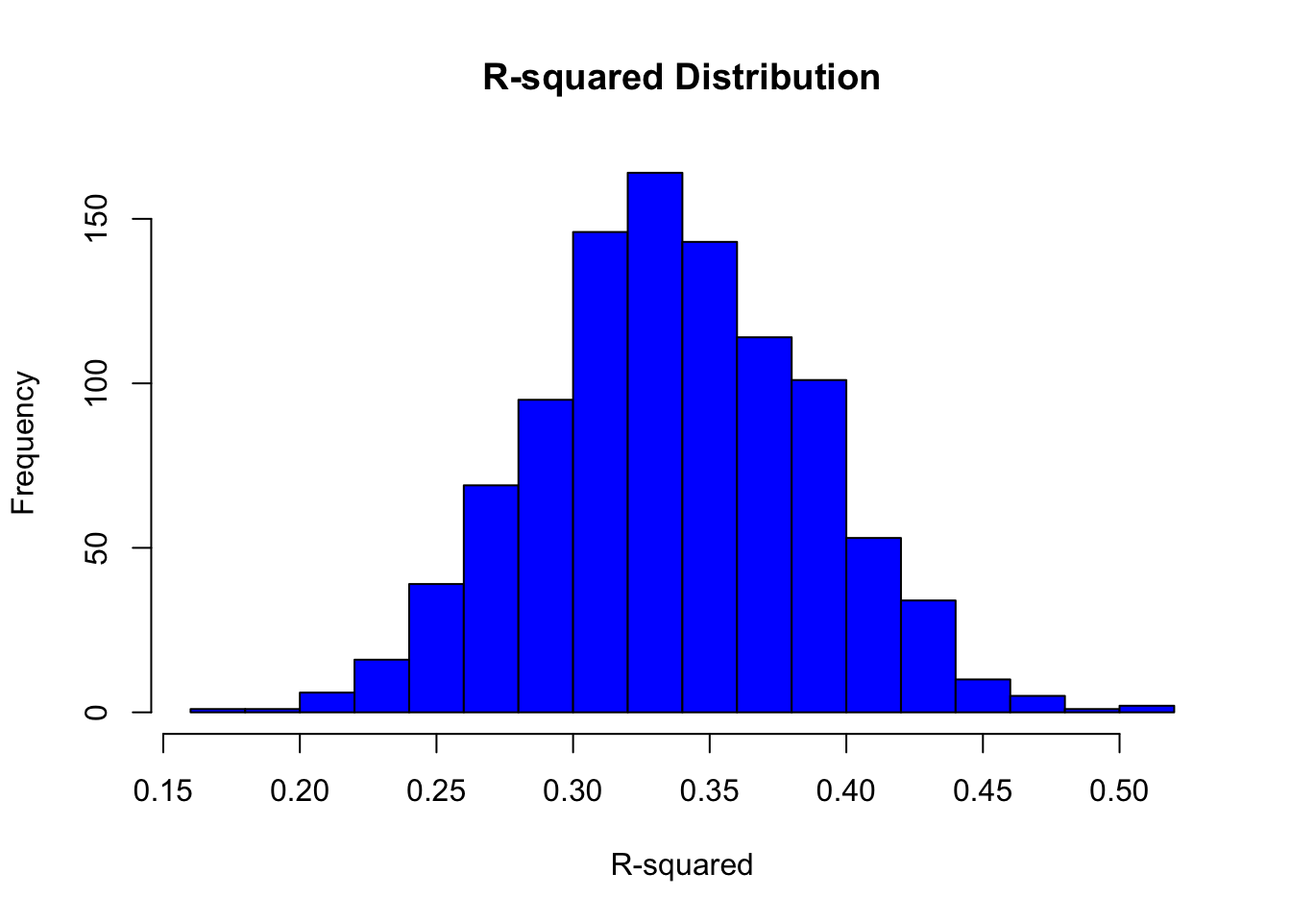
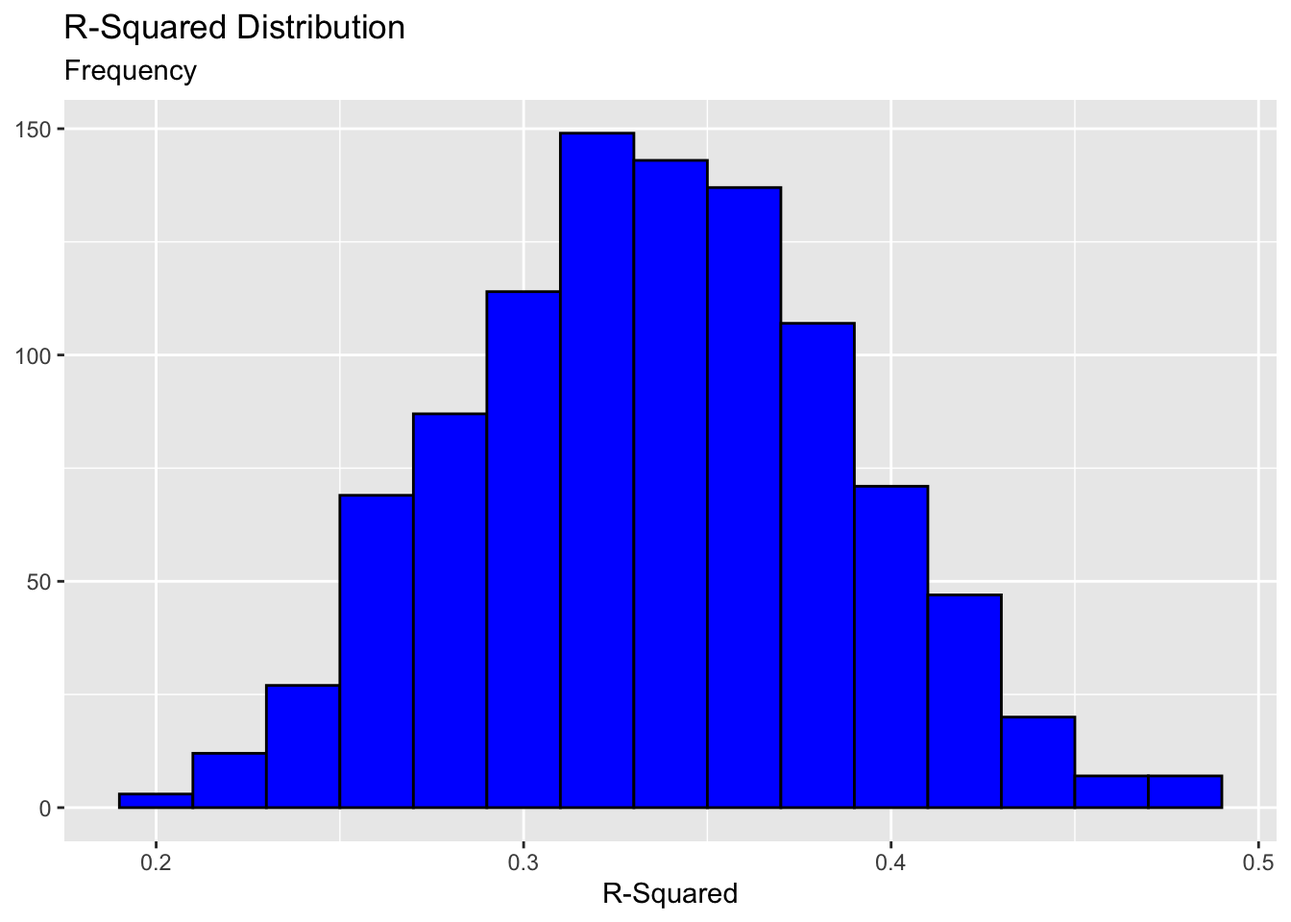
Cleaned up LaTeX

diff --git a/Project Proposal Data.html b/Project Proposal Data.html
@@ -69,6 +69,8 @@ pre > code.sourceCode > span > a:first-child::before { text-decoration: underlin
 <link href="Project Proposal Data_files/libs/bootstrap/bootstrap-icons.css" rel="stylesheet">
 <link href="Project Proposal Data_files/libs/bootstrap/bootstrap.min.css" rel="stylesheet" id="quarto-bootstrap" data-mode="light">
 
+  <script src="https://polyfill.io/v3/polyfill.min.js?features=es6"></script>
+  <script src="https://cdn.jsdelivr.net/npm/mathjax@3/es5/tex-chtml-full.js" type="text/javascript"></script>
 
 </head>
 
@@ -114,14 +116,7 @@ pre > code.sourceCode > span > a:first-child::before { text-decoration: underlin
 <p>For our first data set we chose one that focuses on the GDP ( Gross Domestic Product) per capita of almost 200 countries across the world. GDP per capita takes the whole economic output of a country, and divides it by the country’s population to understand the economic output per person in a country. Lower GDPs per capita means the economy of the given country is poor. The data we have chose highlights the change in GDP per capita from 1950 to 2025 throughout the given countries.</p>
 <p>Our second data is centered around Child Mortality rates in countries across the world. The rate of child mortality is measured as the amount of deaths to children 5 years or younger for every 1,000 children born in a country. This data set includes almost 200 countries from around the world and gives us their child mortality rates from 1950 - 2025.</p>
 <div class="cell">
-<<<<<<< HEAD
-<div class="sourceCode cell-code" id="cb5"><pre class="sourceCode r code-with-copy"><code class="sourceCode r"><span id="cb5-1"><a href="#cb5-1" aria-hidden="true" tabindex="-1"></a>gdp_data <span class="ot">&lt;-</span> <span class="fu">read_csv</span>(here<span class="sc">::</span><span class="fu">here</span>(<span class="st">"gdp_pcap.csv"</span>))</span></code><button title="Copy to Clipboard" class="code-copy-button"><i class="bi"></i></button></pre></div>
-=======
-<details>
-<summary>Code</summary>
 <div class="sourceCode cell-code" id="cb2"><pre class="sourceCode r code-with-copy"><code class="sourceCode r"><span id="cb2-1"><a href="#cb2-1" aria-hidden="true" tabindex="-1"></a>gdp_data <span class="ot">&lt;-</span> <span class="fu">read_csv</span>(here<span class="sc">::</span><span class="fu">here</span>(<span class="st">"gdp_pcap.csv"</span>))</span></code><button title="Copy to Clipboard" class="code-copy-button"><i class="bi"></i></button></pre></div>
-</details>
->>>>>>> 32b1478ddbf8e6ae47a6c7b549732457a0209796
 <div class="cell-output cell-output-stderr">
 <pre><code>Rows: 195 Columns: 302
 ── Column specification ────────────────────────────────────────────────────────
@@ -132,14 +127,7 @@ dbl  (86): 1800, 1801, 1802, 1803, 1804, 1805, 1806, 1807, 1808, 1809, 1810,...
 ℹ Use `spec()` to retrieve the full column specification for this data.
 ℹ Specify the column types or set `show_col_types = FALSE` to quiet this message.</code></pre>
 </div>
-<<<<<<< HEAD
-<div class="sourceCode cell-code" id="cb7"><pre class="sourceCode r code-with-copy"><code class="sourceCode r"><span id="cb7-1"><a href="#cb7-1" aria-hidden="true" tabindex="-1"></a>child_mortality_data <span class="ot">&lt;-</span> <span class="fu">read_csv</span>(here<span class="sc">::</span><span class="fu">here</span>(<span class="st">"child_mortality_0_5_year_olds_dying_per_1000_born.csv"</span>))</span></code><button title="Copy to Clipboard" class="code-copy-button"><i class="bi"></i></button></pre></div>
-=======
-<details>
-<summary>Code</summary>
 <div class="sourceCode cell-code" id="cb4"><pre class="sourceCode r code-with-copy"><code class="sourceCode r"><span id="cb4-1"><a href="#cb4-1" aria-hidden="true" tabindex="-1"></a>child_mortality_data <span class="ot">&lt;-</span> <span class="fu">read_csv</span>(here<span class="sc">::</span><span class="fu">here</span>(<span class="st">"child_mortality_0_5_year_olds_dying_per_1000_born.csv"</span>))</span></code><button title="Copy to Clipboard" class="code-copy-button"><i class="bi"></i></button></pre></div>
-</details>
->>>>>>> 32b1478ddbf8e6ae47a6c7b549732457a0209796
 <div class="cell-output cell-output-stderr">
 <pre><code>Rows: 197 Columns: 302
 ── Column specification ────────────────────────────────────────────────────────
@@ -152,37 +140,17 @@ dbl (301): 1800, 1801, 1802, 1803, 1804, 1805, 1806, 1807, 1808, 1809, 1810,...
 </div>
 </div>
 <div class="cell">
-<<<<<<< HEAD
-<div class="sourceCode cell-code" id="cb9"><pre class="sourceCode r code-with-copy"><code class="sourceCode r"><span id="cb9-1"><a href="#cb9-1" aria-hidden="true" tabindex="-1"></a>child_mortality_long <span class="ot">&lt;-</span> child_mortality_data <span class="sc">|&gt;</span></span>
-<span id="cb9-2"><a href="#cb9-2" aria-hidden="true" tabindex="-1"></a>  <span class="fu">select</span>(country, <span class="st">`</span><span class="at">1950</span><span class="st">`</span><span class="sc">:</span><span class="st">`</span><span class="at">2025</span><span class="st">`</span>) <span class="sc">|&gt;</span></span>
-<span id="cb9-3"><a href="#cb9-3" aria-hidden="true" tabindex="-1"></a>  <span class="fu">pivot_longer</span>(<span class="at">cols =</span> <span class="st">`</span><span class="at">1950</span><span class="st">`</span><span class="sc">:</span><span class="st">`</span><span class="at">2025</span><span class="st">`</span>, <span class="at">names_to =</span> <span class="st">"Year"</span>, <span class="at">values_to =</span> <span class="st">"Death_per_1000"</span>) <span class="sc">|&gt;</span></span>
-<span id="cb9-4"><a href="#cb9-4" aria-hidden="true" tabindex="-1"></a>  <span class="fu">filter</span>(<span class="sc">!</span><span class="fu">is.na</span>(Death_per_1000)) </span></code><button title="Copy to Clipboard" class="code-copy-button"><i class="bi"></i></button></pre></div>
-</div>
-<div class="cell">
-<div class="sourceCode cell-code" id="cb10"><pre class="sourceCode r code-with-copy"><code class="sourceCode r"><span id="cb10-1"><a href="#cb10-1" aria-hidden="true" tabindex="-1"></a>gdp_data_long <span class="ot">&lt;-</span> gdp_data <span class="sc">|&gt;</span></span>
-<span id="cb10-2"><a href="#cb10-2" aria-hidden="true" tabindex="-1"></a>  <span class="fu">select</span>(country, <span class="st">`</span><span class="at">1950</span><span class="st">`</span><span class="sc">:</span><span class="st">`</span><span class="at">2025</span><span class="st">`</span>) <span class="sc">|&gt;</span></span>
-<span id="cb10-3"><a href="#cb10-3" aria-hidden="true" tabindex="-1"></a>  <span class="fu">pivot_longer</span>(<span class="at">cols =</span> <span class="st">`</span><span class="at">1950</span><span class="st">`</span><span class="sc">:</span><span class="st">`</span><span class="at">2025</span><span class="st">`</span>, <span class="at">names_to =</span> <span class="st">"Year"</span>, <span class="at">values_to =</span> <span class="st">"GDP"</span>) <span class="sc">|&gt;</span></span>
-<span id="cb10-4"><a href="#cb10-4" aria-hidden="true" tabindex="-1"></a>  <span class="fu">filter</span>(<span class="sc">!</span><span class="fu">is.na</span>(GDP)) <span class="sc">|&gt;</span></span>
-<span id="cb10-5"><a href="#cb10-5" aria-hidden="true" tabindex="-1"></a>  <span class="fu">mutate</span>(<span class="at">GDP =</span> <span class="fu">if_else</span>(<span class="fu">str_detect</span>(GDP, <span class="st">"k"</span>), <span class="fu">as.numeric</span>(<span class="fu">str_replace</span>(GDP, <span class="st">"k"</span>, <span class="st">""</span>)) <span class="sc">*</span> <span class="dv">1000</span>, <span class="fu">as.numeric</span>(GDP)))</span></code><button title="Copy to Clipboard" class="code-copy-button"><i class="bi"></i></button></pre></div>
-=======
-<details>
-<summary>Code</summary>
 <div class="sourceCode cell-code" id="cb6"><pre class="sourceCode r code-with-copy"><code class="sourceCode r"><span id="cb6-1"><a href="#cb6-1" aria-hidden="true" tabindex="-1"></a>child_mortality_long <span class="ot">&lt;-</span> child_mortality_data <span class="sc">|&gt;</span></span>
 <span id="cb6-2"><a href="#cb6-2" aria-hidden="true" tabindex="-1"></a>  <span class="fu">select</span>(country, <span class="st">`</span><span class="at">1950</span><span class="st">`</span><span class="sc">:</span><span class="st">`</span><span class="at">2025</span><span class="st">`</span>) <span class="sc">|&gt;</span></span>
 <span id="cb6-3"><a href="#cb6-3" aria-hidden="true" tabindex="-1"></a>  <span class="fu">pivot_longer</span>(<span class="at">cols =</span> <span class="st">`</span><span class="at">1950</span><span class="st">`</span><span class="sc">:</span><span class="st">`</span><span class="at">2025</span><span class="st">`</span>, <span class="at">names_to =</span> <span class="st">"Year"</span>, <span class="at">values_to =</span> <span class="st">"Death_per_1000"</span>) <span class="sc">|&gt;</span></span>
 <span id="cb6-4"><a href="#cb6-4" aria-hidden="true" tabindex="-1"></a>  <span class="fu">filter</span>(<span class="sc">!</span><span class="fu">is.na</span>(Death_per_1000)) </span></code><button title="Copy to Clipboard" class="code-copy-button"><i class="bi"></i></button></pre></div>
-</details>
 </div>
 <div class="cell">
-<details>
-<summary>Code</summary>
 <div class="sourceCode cell-code" id="cb7"><pre class="sourceCode r code-with-copy"><code class="sourceCode r"><span id="cb7-1"><a href="#cb7-1" aria-hidden="true" tabindex="-1"></a>gdp_data_long <span class="ot">&lt;-</span> gdp_data <span class="sc">|&gt;</span></span>
 <span id="cb7-2"><a href="#cb7-2" aria-hidden="true" tabindex="-1"></a>  <span class="fu">select</span>(country, <span class="st">`</span><span class="at">1950</span><span class="st">`</span><span class="sc">:</span><span class="st">`</span><span class="at">2025</span><span class="st">`</span>) <span class="sc">|&gt;</span></span>
 <span id="cb7-3"><a href="#cb7-3" aria-hidden="true" tabindex="-1"></a>  <span class="fu">pivot_longer</span>(<span class="at">cols =</span> <span class="st">`</span><span class="at">1950</span><span class="st">`</span><span class="sc">:</span><span class="st">`</span><span class="at">2025</span><span class="st">`</span>, <span class="at">names_to =</span> <span class="st">"Year"</span>, <span class="at">values_to =</span> <span class="st">"GDP"</span>) <span class="sc">|&gt;</span></span>
 <span id="cb7-4"><a href="#cb7-4" aria-hidden="true" tabindex="-1"></a>  <span class="fu">filter</span>(<span class="sc">!</span><span class="fu">is.na</span>(GDP)) <span class="sc">|&gt;</span></span>
 <span id="cb7-5"><a href="#cb7-5" aria-hidden="true" tabindex="-1"></a>  <span class="fu">mutate</span>(<span class="at">GDP =</span> <span class="fu">if_else</span>(<span class="fu">str_detect</span>(GDP, <span class="st">"k"</span>), <span class="fu">as.numeric</span>(<span class="fu">str_replace</span>(GDP, <span class="st">"k"</span>, <span class="st">""</span>)) <span class="sc">*</span> <span class="dv">1000</span>, <span class="fu">as.numeric</span>(GDP)))</span></code><button title="Copy to Clipboard" class="code-copy-button"><i class="bi"></i></button></pre></div>
-</details>
->>>>>>> 32b1478ddbf8e6ae47a6c7b549732457a0209796
 <div class="cell-output cell-output-stderr">
 <pre><code>Warning: There was 1 warning in `mutate()`.
 ℹ In argument: `GDP = if_else(...)`.
@@ -195,68 +163,34 @@ Caused by warning in `if_else()`:
 <h2 class="anchored" data-anchor-id="hypothesis">Hypothesis</h2>
 <p>We are combining our two data sets, GDP per capita and Child Mortality Rates, to examine what type of relationship, if any, there is between the two variables. We are testing how GDP per capita has affected Child Mortality Rates in countries across the world from 1950 to 2025, and if we can find any association between the two. Our hypothesis is that a lower GDP per Capita will be positively associated with a higher Child Mortality Rate. We believe this to be true because the lower economic standing a country has, the harsher living conditions there tends to be meaning an increased possibility of child mortality.</p>
 <div class="cell">
-<<<<<<< HEAD
-<div class="sourceCode cell-code" id="cb12"><pre class="sourceCode r code-with-copy"><code class="sourceCode r"><span id="cb12-1"><a href="#cb12-1" aria-hidden="true" tabindex="-1"></a>Total_data <span class="ot">&lt;-</span> child_mortality_long <span class="sc">|&gt;</span></span>
-<span id="cb12-2"><a href="#cb12-2" aria-hidden="true" tabindex="-1"></a>  <span class="fu">inner_join</span>(gdp_data_long, <span class="fu">join_by</span>(<span class="st">"country"</span>, <span class="st">"Year"</span>)) <span class="sc">|&gt;</span></span>
-<span id="cb12-3"><a href="#cb12-3" aria-hidden="true" tabindex="-1"></a>  <span class="fu">rename</span>(<span class="st">"Country"</span> <span class="ot">=</span> country)</span></code><button title="Copy to Clipboard" class="code-copy-button"><i class="bi"></i></button></pre></div>
-=======
-<details>
-<summary>Code</summary>
 <div class="sourceCode cell-code" id="cb9"><pre class="sourceCode r code-with-copy"><code class="sourceCode r"><span id="cb9-1"><a href="#cb9-1" aria-hidden="true" tabindex="-1"></a>Total_data <span class="ot">&lt;-</span> child_mortality_long <span class="sc">|&gt;</span></span>
 <span id="cb9-2"><a href="#cb9-2" aria-hidden="true" tabindex="-1"></a>  <span class="fu">inner_join</span>(gdp_data_long, <span class="fu">join_by</span>(<span class="st">"country"</span>, <span class="st">"Year"</span>)) <span class="sc">|&gt;</span></span>
 <span id="cb9-3"><a href="#cb9-3" aria-hidden="true" tabindex="-1"></a>  <span class="fu">rename</span>(<span class="st">"Country"</span> <span class="ot">=</span> country)</span></code><button title="Copy to Clipboard" class="code-copy-button"><i class="bi"></i></button></pre></div>
-</details>
->>>>>>> 32b1478ddbf8e6ae47a6c7b549732457a0209796
 </div>
 </section>
 <section id="linear-regression" class="level2">
 <h2 class="anchored" data-anchor-id="linear-regression">2 Linear Regression</h2>
 <div class="cell">
-<<<<<<< HEAD
-<div class="sourceCode cell-code" id="cb13"><pre class="sourceCode r code-with-copy"><code class="sourceCode r"><span id="cb13-1"><a href="#cb13-1" aria-hidden="true" tabindex="-1"></a>avg_Total_data <span class="ot">&lt;-</span> Total_data<span class="sc">|&gt;</span></span>
-<span id="cb13-2"><a href="#cb13-2" aria-hidden="true" tabindex="-1"></a>  <span class="fu">group_by</span>(Country)<span class="sc">|&gt;</span></span>
-<span id="cb13-3"><a href="#cb13-3" aria-hidden="true" tabindex="-1"></a>  <span class="fu">summarize</span>(<span class="at">avg_GDP =</span> <span class="fu">mean</span>(GDP), <span class="at">avg_Death_per_1000 =</span> <span class="fu">mean</span>(Death_per_1000))</span></code><button title="Copy to Clipboard" class="code-copy-button"><i class="bi"></i></button></pre></div>
-=======
 <details>
 <summary>Code</summary>
 <div class="sourceCode cell-code" id="cb10"><pre class="sourceCode r code-with-copy"><code class="sourceCode r"><span id="cb10-1"><a href="#cb10-1" aria-hidden="true" tabindex="-1"></a>avg_Total_data <span class="ot">&lt;-</span> Total_data<span class="sc">|&gt;</span></span>
 <span id="cb10-2"><a href="#cb10-2" aria-hidden="true" tabindex="-1"></a>  <span class="fu">group_by</span>(Country)<span class="sc">|&gt;</span></span>
 <span id="cb10-3"><a href="#cb10-3" aria-hidden="true" tabindex="-1"></a>  <span class="fu">summarize</span>(<span class="at">avg_GDP =</span> <span class="fu">mean</span>(GDP), <span class="at">avg_Death_per_1000 =</span> <span class="fu">mean</span>(Death_per_1000))</span></code><button title="Copy to Clipboard" class="code-copy-button"><i class="bi"></i></button></pre></div>
 </details>
->>>>>>> 32b1478ddbf8e6ae47a6c7b549732457a0209796
 </div>
 </section>
 <section id="data-visualization" class="level2">
 <h2 class="anchored" data-anchor-id="data-visualization">2.1 Data Visualization</h2>
 <div class="cell">
-<<<<<<< HEAD
-<div class="sourceCode cell-code" id="cb14"><pre class="sourceCode r code-with-copy"><code class="sourceCode r"><span id="cb14-1"><a href="#cb14-1" aria-hidden="true" tabindex="-1"></a><span class="fu">ggplot</span>(Total_data, <span class="fu">aes</span>(<span class="at">x =</span> GDP, <span class="at">y =</span> Death_per_1000, <span class="at">color =</span> Country)) <span class="sc">+</span></span>
-<span id="cb14-2"><a href="#cb14-2" aria-hidden="true" tabindex="-1"></a>  <span class="fu">geom_line</span>() <span class="sc">+</span></span>
-<span id="cb14-3"><a href="#cb14-3" aria-hidden="true" tabindex="-1"></a>  <span class="fu">labs</span>(<span class="at">x =</span> <span class="st">"GDP"</span>, <span class="at">y =</span> <span class="st">"Death_per_1000"</span>, <span class="at">title =</span> <span class="st">"Relationship between Death_per_1000 and GDP over time"</span>)</span></code><button title="Copy to Clipboard" class="code-copy-button"><i class="bi"></i></button></pre></div>
-=======
-<details>
-<summary>Code</summary>
 <div class="sourceCode cell-code" id="cb11"><pre class="sourceCode r code-with-copy"><code class="sourceCode r"><span id="cb11-1"><a href="#cb11-1" aria-hidden="true" tabindex="-1"></a><span class="fu">ggplot</span>(Total_data, <span class="fu">aes</span>(<span class="at">x =</span> GDP, <span class="at">y =</span> Death_per_1000, <span class="at">color =</span> Country)) <span class="sc">+</span></span>
 <span id="cb11-2"><a href="#cb11-2" aria-hidden="true" tabindex="-1"></a>  <span class="fu">geom_line</span>() <span class="sc">+</span></span>
 <span id="cb11-3"><a href="#cb11-3" aria-hidden="true" tabindex="-1"></a>  <span class="fu">labs</span>(<span class="at">x =</span> <span class="st">"GDP"</span>, <span class="at">y =</span> <span class="cn">NULL</span>, <span class="at">subtitle =</span> <span class="st">"Child Mortality per 1000"</span>, <span class="at">title =</span> <span class="st">"Relationship between Child Mortality and GDP over time"</span>)</span></code><button title="Copy to Clipboard" class="code-copy-button"><i class="bi"></i></button></pre></div>
-</details>
->>>>>>> 32b1478ddbf8e6ae47a6c7b549732457a0209796
 <div class="cell-output-display">
 <p><img src="Project-Proposal-Data_files/figure-html/unnamed-chunk-7-1.png" class="img-fluid" width="672"></p>
 </div>
-<<<<<<< HEAD
-</div>
-<div class="sourceCode cell-code" id="cb15"><pre class="sourceCode r code-with-copy"><code class="sourceCode r"><span id="cb15-1"><a href="#cb15-1" aria-hidden="true" tabindex="-1"></a><span class="fu">ggplot</span>(avg_Total_data, <span class="fu">aes</span>(<span class="at">x =</span> avg_GDP, <span class="at">y =</span> avg_Death_per_1000)) <span class="sc">+</span></span>
-<span id="cb15-2"><a href="#cb15-2" aria-hidden="true" tabindex="-1"></a>  <span class="fu">geom_point</span>() <span class="sc">+</span></span>
-<span id="cb15-3"><a href="#cb15-3" aria-hidden="true" tabindex="-1"></a>  <span class="fu">labs</span>(<span class="at">x =</span> <span class="st">"Average GDP"</span>, <span class="at">y =</span> <span class="st">"Average Death_per_1000"</span>, <span class="at">title =</span> <span class="st">"Relationship between Average Death_per_1000 and Average GDP over time"</span>)</span></code><button title="Copy to Clipboard" class="code-copy-button"><i class="bi"></i></button></pre></div>
-=======
-<details>
-<summary>Code</summary>
 <div class="sourceCode cell-code" id="cb12"><pre class="sourceCode r code-with-copy"><code class="sourceCode r"><span id="cb12-1"><a href="#cb12-1" aria-hidden="true" tabindex="-1"></a><span class="fu">ggplot</span>(avg_Total_data, <span class="fu">aes</span>(<span class="at">x =</span> avg_GDP, <span class="at">y =</span> avg_Death_per_1000)) <span class="sc">+</span></span>
 <span id="cb12-2"><a href="#cb12-2" aria-hidden="true" tabindex="-1"></a>  <span class="fu">geom_point</span>() <span class="sc">+</span></span>
 <span id="cb12-3"><a href="#cb12-3" aria-hidden="true" tabindex="-1"></a>  <span class="fu">labs</span>(<span class="at">x =</span> <span class="st">"Average GDP"</span>, <span class="at">y =</span> <span class="cn">NULL</span>, <span class="at">subtitle =</span> <span class="st">"Average Child Mortality per 1000"</span>, <span class="at">title =</span> <span class="st">"Relationship between Average Child Mortality and Average GDP over time"</span>)</span></code><button title="Copy to Clipboard" class="code-copy-button"><i class="bi"></i></button></pre></div>
-</details>
->>>>>>> 32b1478ddbf8e6ae47a6c7b549732457a0209796
 <div class="cell-output-display">
 <p><img src="Project-Proposal-Data_files/figure-html/unnamed-chunk-7-2.png" class="img-fluid" width="672"></p>
 </div>
@@ -264,19 +198,11 @@ Caused by warning in `if_else()`:
 </section>
 <section id="linear-regression-1" class="level2">
 <h2 class="anchored" data-anchor-id="linear-regression-1">2.2 Linear Regression</h2>
-<p>Average Child Mortality Rate = 123 - .0024(Average GDP)</p>
-<p>From this equation we can gather that when the Average GDP of a country is $0, the Average Child Mortality Rate is 123 deaths per 1000 children.</p>
+<p><span class="math inline">\(\hat{y} = 123 - .0024\hat{x}\)</span>, where \<span class="math inline">\(\hat{y} = \text{Predicted Average Child Mortality Rate}\)</span> and <span class="math inline">\(\hat{x} = \text{Average GDP}\)</span></p>
+<p>From this equation we can gather that when the Average GDP of a country is $0, the predicted Average Child Mortality Rate is 123 deaths per 1000 children. We can also see that with every one dollar increase in Average GDP, the predicted Average Child Mortality rate goes down by .0024 deaths per 1000 children.</p>
 <div class="cell">
-<<<<<<< HEAD
-<div class="sourceCode cell-code" id="cb16"><pre class="sourceCode r code-with-copy"><code class="sourceCode r"><span id="cb16-1"><a href="#cb16-1" aria-hidden="true" tabindex="-1"></a>linear_regression_model <span class="ot">&lt;-</span> <span class="fu">lm</span>(avg_Death_per_1000 <span class="sc">~</span> avg_GDP, <span class="at">data =</span> avg_Total_data)</span>
-<span id="cb16-2"><a href="#cb16-2" aria-hidden="true" tabindex="-1"></a><span class="fu">summary</span>(linear_regression_model)</span></code><button title="Copy to Clipboard" class="code-copy-button"><i class="bi"></i></button></pre></div>
-=======
-<details>
-<summary>Code</summary>
 <div class="sourceCode cell-code" id="cb13"><pre class="sourceCode r code-with-copy"><code class="sourceCode r"><span id="cb13-1"><a href="#cb13-1" aria-hidden="true" tabindex="-1"></a>linear_regression_model <span class="ot">&lt;-</span> <span class="fu">lm</span>(avg_Death_per_1000 <span class="sc">~</span> avg_GDP, <span class="at">data =</span> avg_Total_data)</span>
 <span id="cb13-2"><a href="#cb13-2" aria-hidden="true" tabindex="-1"></a><span class="fu">summary</span>(linear_regression_model)</span></code><button title="Copy to Clipboard" class="code-copy-button"><i class="bi"></i></button></pre></div>
-</details>
->>>>>>> 32b1478ddbf8e6ae47a6c7b549732457a0209796
 <div class="cell-output cell-output-stdout">
 <pre><code>
 Call:
@@ -302,18 +228,6 @@ F-statistic: 97.34 on 1 and 193 DF,  p-value: &lt; 2.2e-16</code></pre>
 <section id="model-fit" class="level2">
 <h2 class="anchored" data-anchor-id="model-fit">2.3 Model Fit</h2>
 <div class="cell">
-<<<<<<< HEAD
-<div class="sourceCode cell-code" id="cb18"><pre class="sourceCode r code-with-copy"><code class="sourceCode r"><span id="cb18-1"><a href="#cb18-1" aria-hidden="true" tabindex="-1"></a>variance_response <span class="ot">&lt;-</span> <span class="fu">var</span>(avg_Total_data<span class="sc">$</span>avg_Death_per_1000)</span>
-<span id="cb18-2"><a href="#cb18-2" aria-hidden="true" tabindex="-1"></a>variance_fitted <span class="ot">&lt;-</span> <span class="fu">var</span>(<span class="fu">fitted</span>(linear_regression_model))</span>
-<span id="cb18-3"><a href="#cb18-3" aria-hidden="true" tabindex="-1"></a>variance_residuals <span class="ot">&lt;-</span> <span class="fu">var</span>(<span class="fu">residuals</span>(linear_regression_model))</span>
-<span id="cb18-4"><a href="#cb18-4" aria-hidden="true" tabindex="-1"></a></span>
-<span id="cb18-5"><a href="#cb18-5" aria-hidden="true" tabindex="-1"></a>formatted_table <span class="ot">&lt;-</span> <span class="fu">data.frame</span>(<span class="at">Variance =</span> <span class="fu">c</span>(variance_response, variance_fitted, variance_residuals), </span>
-<span id="cb18-6"><a href="#cb18-6" aria-hidden="true" tabindex="-1"></a>                              <span class="at">Source =</span> <span class="fu">c</span>(<span class="st">"Response Values"</span>, <span class="st">"Fitted Values"</span>, <span class="st">"Residuals"</span>))</span>
-<span id="cb18-7"><a href="#cb18-7" aria-hidden="true" tabindex="-1"></a></span>
-<span id="cb18-8"><a href="#cb18-8" aria-hidden="true" tabindex="-1"></a><span class="fu">print</span>(formatted_table)</span></code><button title="Copy to Clipboard" class="code-copy-button"><i class="bi"></i></button></pre></div>
-=======
-<details>
-<summary>Code</summary>
 <div class="sourceCode cell-code" id="cb15"><pre class="sourceCode r code-with-copy"><code class="sourceCode r"><span id="cb15-1"><a href="#cb15-1" aria-hidden="true" tabindex="-1"></a>variance_response <span class="ot">&lt;-</span> <span class="fu">var</span>(avg_Total_data<span class="sc">$</span>avg_Death_per_1000)</span>
 <span id="cb15-2"><a href="#cb15-2" aria-hidden="true" tabindex="-1"></a>variance_fitted <span class="ot">&lt;-</span> <span class="fu">var</span>(<span class="fu">fitted</span>(linear_regression_model))</span>
 <span id="cb15-3"><a href="#cb15-3" aria-hidden="true" tabindex="-1"></a>variance_residuals <span class="ot">&lt;-</span> <span class="fu">var</span>(<span class="fu">residuals</span>(linear_regression_model))</span>
@@ -322,8 +236,6 @@ F-statistic: 97.34 on 1 and 193 DF,  p-value: &lt; 2.2e-16</code></pre>
 <span id="cb15-6"><a href="#cb15-6" aria-hidden="true" tabindex="-1"></a>                              <span class="at">Source =</span> <span class="fu">c</span>(<span class="st">"Response Values"</span>, <span class="st">"Fitted Values"</span>, <span class="st">"Residuals"</span>))</span>
 <span id="cb15-7"><a href="#cb15-7" aria-hidden="true" tabindex="-1"></a></span>
 <span id="cb15-8"><a href="#cb15-8" aria-hidden="true" tabindex="-1"></a><span class="fu">print</span>(formatted_table)</span></code><button title="Copy to Clipboard" class="code-copy-button"><i class="bi"></i></button></pre></div>
-</details>
->>>>>>> 32b1478ddbf8e6ae47a6c7b549732457a0209796
 <div class="cell-output cell-output-stdout">
 <pre><code>  Variance          Source
 1 4299.856 Response Values
@@ -338,19 +250,6 @@ F-statistic: 97.34 on 1 and 193 DF,  p-value: &lt; 2.2e-16</code></pre>
 <section id="visualizing-simulations-from-the-model" class="level2">
 <h2 class="anchored" data-anchor-id="visualizing-simulations-from-the-model">3.1 Visualizing Simulations from the Model</h2>
 <div class="cell">
-<<<<<<< HEAD
-<div class="sourceCode cell-code" id="cb20"><pre class="sourceCode r code-with-copy"><code class="sourceCode r"><span id="cb20-1"><a href="#cb20-1" aria-hidden="true" tabindex="-1"></a>predictions <span class="ot">&lt;-</span> <span class="fu">predict</span>(linear_regression_model, avg_Total_data)</span>
-<span id="cb20-2"><a href="#cb20-2" aria-hidden="true" tabindex="-1"></a>simulated_values <span class="ot">&lt;-</span> predictions <span class="sc">+</span> <span class="fu">rnorm</span>(<span class="fu">length</span>(predictions), <span class="dv">0</span>, <span class="fu">sigma</span>(linear_regression_model))</span>
-<span id="cb20-3"><a href="#cb20-3" aria-hidden="true" tabindex="-1"></a></span>
-<span id="cb20-4"><a href="#cb20-4" aria-hidden="true" tabindex="-1"></a>simulated_formatted_table <span class="ot">&lt;-</span> <span class="fu">data.frame</span>(<span class="at">avg_GDP =</span> avg_Total_data<span class="sc">$</span>avg_GDP, <span class="at">avg_Death_per_1000 =</span> simulated_values)</span>
-<span id="cb20-5"><a href="#cb20-5" aria-hidden="true" tabindex="-1"></a></span>
-<span id="cb20-6"><a href="#cb20-6" aria-hidden="true" tabindex="-1"></a><span class="fu">ggplot</span>() <span class="sc">+</span></span>
-<span id="cb20-7"><a href="#cb20-7" aria-hidden="true" tabindex="-1"></a>  <span class="fu">geom_point</span>(<span class="at">data =</span> avg_Total_data, <span class="fu">aes</span>(<span class="at">x =</span> avg_GDP, <span class="at">y =</span> avg_Death_per_1000), <span class="at">color =</span> <span class="st">"red"</span>, <span class="at">alpha =</span> <span class="fl">0.5</span>) <span class="sc">+</span> </span>
-<span id="cb20-8"><a href="#cb20-8" aria-hidden="true" tabindex="-1"></a>  <span class="fu">geom_point</span>(<span class="at">data =</span> simulated_formatted_table, <span class="fu">aes</span>(<span class="at">x =</span> avg_GDP, <span class="at">y =</span> avg_Death_per_1000), <span class="at">color =</span> <span class="st">"blue"</span>, <span class="at">alpha =</span> <span class="fl">0.5</span>) <span class="sc">+</span></span>
-<span id="cb20-9"><a href="#cb20-9" aria-hidden="true" tabindex="-1"></a>  <span class="fu">labs</span>(<span class="at">x=</span> <span class="st">"Average GDP"</span>, <span class="at">y =</span> <span class="st">"Average Death_per_1000"</span>, <span class="at">title =</span> <span class="st">"Comparison of Observed and Simulated Data"</span>)</span></code><button title="Copy to Clipboard" class="code-copy-button"><i class="bi"></i></button></pre></div>
-=======
-<details>
-<summary>Code</summary>
 <div class="sourceCode cell-code" id="cb17"><pre class="sourceCode r code-with-copy"><code class="sourceCode r"><span id="cb17-1"><a href="#cb17-1" aria-hidden="true" tabindex="-1"></a>predictions <span class="ot">&lt;-</span> <span class="fu">predict</span>(linear_regression_model, avg_Total_data)</span>
 <span id="cb17-2"><a href="#cb17-2" aria-hidden="true" tabindex="-1"></a>simulated_values <span class="ot">&lt;-</span> predictions <span class="sc">+</span> <span class="fu">rnorm</span>(<span class="fu">length</span>(predictions), <span class="dv">0</span>, <span class="fu">sigma</span>(linear_regression_model))</span>
 <span id="cb17-3"><a href="#cb17-3" aria-hidden="true" tabindex="-1"></a></span>
@@ -359,9 +258,7 @@ F-statistic: 97.34 on 1 and 193 DF,  p-value: &lt; 2.2e-16</code></pre>
 <span id="cb17-6"><a href="#cb17-6" aria-hidden="true" tabindex="-1"></a><span class="fu">ggplot</span>() <span class="sc">+</span></span>
 <span id="cb17-7"><a href="#cb17-7" aria-hidden="true" tabindex="-1"></a>  <span class="fu">geom_point</span>(<span class="at">data =</span> avg_Total_data, <span class="fu">aes</span>(<span class="at">x =</span> avg_GDP, <span class="at">y =</span> avg_Death_per_1000), <span class="at">color =</span> <span class="st">"red"</span>, <span class="at">alpha =</span> <span class="fl">0.5</span>) <span class="sc">+</span> </span>
 <span id="cb17-8"><a href="#cb17-8" aria-hidden="true" tabindex="-1"></a>  <span class="fu">geom_point</span>(<span class="at">data =</span> simulated_formatted_table, <span class="fu">aes</span>(<span class="at">x =</span> avg_GDP, <span class="at">y =</span> avg_Death_per_1000), <span class="at">color =</span> <span class="st">"blue"</span>, <span class="at">alpha =</span> <span class="fl">0.5</span>) <span class="sc">+</span></span>
-<span id="cb17-9"><a href="#cb17-9" aria-hidden="true" tabindex="-1"></a>  <span class="fu">labs</span>(<span class="at">x=</span> <span class="st">"Average GDP"</span>, <span class="at">y =</span> <span class="st">"Average Death_per_1000"</span>, <span class="at">title =</span> <span class="st">"Comparison of Observed and Simulated Data"</span>)</span></code><button title="Copy to Clipboard" class="code-copy-button"><i class="bi"></i></button></pre></div>
-</details>
->>>>>>> 32b1478ddbf8e6ae47a6c7b549732457a0209796
+<span id="cb17-9"><a href="#cb17-9" aria-hidden="true" tabindex="-1"></a>  <span class="fu">labs</span>(<span class="at">x=</span> <span class="st">"Average GDP"</span>, <span class="at">y =</span> <span class="cn">NULL</span>, <span class="at">subtitle =</span><span class="st">"Average Child Mortality per 1000"</span>, <span class="at">title =</span> <span class="st">"Comparison of Observed and Simulated Data"</span>)</span></code><button title="Copy to Clipboard" class="code-copy-button"><i class="bi"></i></button></pre></div>
 <div class="cell-output-display">
 <p><img src="Project-Proposal-Data_files/figure-html/unnamed-chunk-10-1.png" class="img-fluid" width="672"></p>
 </div>
@@ -370,34 +267,25 @@ F-statistic: 97.34 on 1 and 193 DF,  p-value: &lt; 2.2e-16</code></pre>
 <section id="generating-multiple-predictive-checks" class="level2">
 <h2 class="anchored" data-anchor-id="generating-multiple-predictive-checks">3.2 Generating Multiple Predictive Checks</h2>
 <div class="cell">
-<<<<<<< HEAD
-<div class="sourceCode cell-code" id="cb21"><pre class="sourceCode r code-with-copy"><code class="sourceCode r"><span id="cb21-1"><a href="#cb21-1" aria-hidden="true" tabindex="-1"></a>num_simulations <span class="ot">&lt;-</span> <span class="dv">1000</span></span>
-<span id="cb21-2"><a href="#cb21-2" aria-hidden="true" tabindex="-1"></a>r_squared_values <span class="ot">&lt;-</span> <span class="fu">numeric</span>(num_simulations)</span>
-<span id="cb21-3"><a href="#cb21-3" aria-hidden="true" tabindex="-1"></a></span>
-<span id="cb21-4"><a href="#cb21-4" aria-hidden="true" tabindex="-1"></a><span class="cf">for</span> (i <span class="cf">in</span> <span class="dv">1</span><span class="sc">:</span>num_simulations) {</span>
-<span id="cb21-5"><a href="#cb21-5" aria-hidden="true" tabindex="-1"></a>  simulated_values <span class="ot">&lt;-</span> predictions <span class="sc">+</span> <span class="fu">rnorm</span>(<span class="fu">length</span>(predictions), <span class="dv">0</span>, <span class="fu">sigma</span>(linear_regression_model))</span>
-<span id="cb21-6"><a href="#cb21-6" aria-hidden="true" tabindex="-1"></a>  simulated_formatted_table <span class="ot">&lt;-</span> <span class="fu">data.frame</span>(<span class="at">avg_GDP =</span> avg_Total_data<span class="sc">$</span>avg_GDP, <span class="at">avg_Death_per_1000 =</span> simulated_values)</span>
-<span id="cb21-7"><a href="#cb21-7" aria-hidden="true" tabindex="-1"></a>  simulated_linear_regression_model <span class="ot">&lt;-</span> <span class="fu">lm</span>(simulated_formatted_table[,<span class="dv">1</span>] <span class="sc">~</span> simulated_formatted_table[,<span class="dv">2</span>], <span class="at">data =</span> formatted_table)</span>
-<span id="cb21-8"><a href="#cb21-8" aria-hidden="true" tabindex="-1"></a>  r_squared_values[i] <span class="ot">&lt;-</span> <span class="fu">summary</span>(simulated_linear_regression_model)<span class="sc">$</span>r.squared</span>
-<span id="cb21-9"><a href="#cb21-9" aria-hidden="true" tabindex="-1"></a>}</span>
-<span id="cb21-10"><a href="#cb21-10" aria-hidden="true" tabindex="-1"></a></span>
-<span id="cb21-11"><a href="#cb21-11" aria-hidden="true" tabindex="-1"></a><span class="fu">hist</span>(r_squared_values, <span class="at">breaks =</span> <span class="dv">20</span>, <span class="at">col =</span> <span class="st">"blue"</span>, <span class="at">xlab =</span> <span class="st">"R-squared"</span>, <span class="at">main =</span> <span class="st">"R-squared Distribution"</span>)</span></code><button title="Copy to Clipboard" class="code-copy-button"><i class="bi"></i></button></pre></div>
-=======
-<details>
-<summary>Code</summary>
-<div class="sourceCode cell-code" id="cb18"><pre class="sourceCode r code-with-copy"><code class="sourceCode r"><span id="cb18-1"><a href="#cb18-1" aria-hidden="true" tabindex="-1"></a>num_simulations <span class="ot">&lt;-</span> <span class="dv">1000</span></span>
-<span id="cb18-2"><a href="#cb18-2" aria-hidden="true" tabindex="-1"></a>r_squared_values <span class="ot">&lt;-</span> <span class="fu">numeric</span>(num_simulations)</span>
-<span id="cb18-3"><a href="#cb18-3" aria-hidden="true" tabindex="-1"></a></span>
-<span id="cb18-4"><a href="#cb18-4" aria-hidden="true" tabindex="-1"></a><span class="cf">for</span> (i <span class="cf">in</span> <span class="dv">1</span><span class="sc">:</span>num_simulations) {</span>
-<span id="cb18-5"><a href="#cb18-5" aria-hidden="true" tabindex="-1"></a>  simulated_values <span class="ot">&lt;-</span> predictions <span class="sc">+</span> <span class="fu">rnorm</span>(<span class="fu">length</span>(predictions), <span class="dv">0</span>, <span class="fu">sigma</span>(linear_regression_model))</span>
-<span id="cb18-6"><a href="#cb18-6" aria-hidden="true" tabindex="-1"></a>  simulated_formatted_table <span class="ot">&lt;-</span> <span class="fu">data.frame</span>(<span class="at">avg_GDP =</span> avg_Total_data<span class="sc">$</span>avg_GDP, <span class="at">avg_Death_per_1000 =</span> simulated_values)</span>
-<span id="cb18-7"><a href="#cb18-7" aria-hidden="true" tabindex="-1"></a>  simulated_linear_regression_model <span class="ot">&lt;-</span> <span class="fu">lm</span>(simulated_formatted_table[,<span class="dv">1</span>] <span class="sc">~</span> simulated_formatted_table[,<span class="dv">2</span>], <span class="at">data =</span> formatted_table)</span>
-<span id="cb18-8"><a href="#cb18-8" aria-hidden="true" tabindex="-1"></a>  r_squared_values[i] <span class="ot">&lt;-</span> <span class="fu">summary</span>(simulated_linear_regression_model)<span class="sc">$</span>r.squared</span>
-<span id="cb18-9"><a href="#cb18-9" aria-hidden="true" tabindex="-1"></a>}</span>
-<span id="cb18-10"><a href="#cb18-10" aria-hidden="true" tabindex="-1"></a></span>
-<span id="cb18-11"><a href="#cb18-11" aria-hidden="true" tabindex="-1"></a><span class="fu">hist</span>(r_squared_values, <span class="at">breaks =</span> <span class="dv">20</span>, <span class="at">col =</span> <span class="st">"blue"</span>, <span class="at">xlab =</span> <span class="st">"R-squared"</span>, <span class="at">main =</span> <span class="st">"R-squared Distribution"</span>)</span></code><button title="Copy to Clipboard" class="code-copy-button"><i class="bi"></i></button></pre></div>
-</details>
->>>>>>> 32b1478ddbf8e6ae47a6c7b549732457a0209796
+<div class="sourceCode cell-code" id="cb18"><pre class="sourceCode r code-with-copy"><code class="sourceCode r"><span id="cb18-1"><a href="#cb18-1" aria-hidden="true" tabindex="-1"></a><span class="fu">set.seed</span>(<span class="dv">9531</span>)</span>
+<span id="cb18-2"><a href="#cb18-2" aria-hidden="true" tabindex="-1"></a>num_simulations <span class="ot">&lt;-</span> <span class="dv">1000</span></span>
+<span id="cb18-3"><a href="#cb18-3" aria-hidden="true" tabindex="-1"></a>r_squared_values <span class="ot">&lt;-</span> <span class="fu">numeric</span>(num_simulations)</span>
+<span id="cb18-4"><a href="#cb18-4" aria-hidden="true" tabindex="-1"></a></span>
+<span id="cb18-5"><a href="#cb18-5" aria-hidden="true" tabindex="-1"></a><span class="cf">for</span> (i <span class="cf">in</span> <span class="dv">1</span><span class="sc">:</span>num_simulations) {</span>
+<span id="cb18-6"><a href="#cb18-6" aria-hidden="true" tabindex="-1"></a>  simulated_values <span class="ot">&lt;-</span> predictions <span class="sc">+</span> <span class="fu">rnorm</span>(<span class="fu">length</span>(predictions), <span class="dv">0</span>, <span class="fu">sigma</span>(linear_regression_model))</span>
+<span id="cb18-7"><a href="#cb18-7" aria-hidden="true" tabindex="-1"></a>  simulated_formatted_table <span class="ot">&lt;-</span> <span class="fu">data.frame</span>(<span class="at">avg_GDP =</span> avg_Total_data<span class="sc">$</span>avg_GDP, <span class="at">avg_Death_per_1000 =</span> simulated_values)</span>
+<span id="cb18-8"><a href="#cb18-8" aria-hidden="true" tabindex="-1"></a>  simulated_linear_regression_model <span class="ot">&lt;-</span> <span class="fu">lm</span>(simulated_formatted_table[,<span class="dv">1</span>] <span class="sc">~</span> simulated_formatted_table[,<span class="dv">2</span>], <span class="at">data =</span> formatted_table)</span>
+<span id="cb18-9"><a href="#cb18-9" aria-hidden="true" tabindex="-1"></a>  r_squared_values[i] <span class="ot">&lt;-</span> <span class="fu">summary</span>(simulated_linear_regression_model)<span class="sc">$</span>r.squared</span>
+<span id="cb18-10"><a href="#cb18-10" aria-hidden="true" tabindex="-1"></a>}</span>
+<span id="cb18-11"><a href="#cb18-11" aria-hidden="true" tabindex="-1"></a></span>
+<span id="cb18-12"><a href="#cb18-12" aria-hidden="true" tabindex="-1"></a><span class="fu">ggplot</span>(<span class="at">mapping =</span> <span class="fu">aes</span>(<span class="at">x =</span> r_squared_values)</span>
+<span id="cb18-13"><a href="#cb18-13" aria-hidden="true" tabindex="-1"></a>       ) <span class="sc">+</span></span>
+<span id="cb18-14"><a href="#cb18-14" aria-hidden="true" tabindex="-1"></a>  <span class="fu">geom_histogram</span>(<span class="at">binwidth =</span> .<span class="dv">02</span>, <span class="at">color =</span> <span class="st">"black"</span>, <span class="at">fill =</span> <span class="st">"blue"</span>) <span class="sc">+</span></span>
+<span id="cb18-15"><a href="#cb18-15" aria-hidden="true" tabindex="-1"></a>  <span class="fu">labs</span>(<span class="at">x =</span> <span class="st">"R-Squared"</span>,</span>
+<span id="cb18-16"><a href="#cb18-16" aria-hidden="true" tabindex="-1"></a>       <span class="at">y =</span> <span class="cn">NULL</span>,</span>
+<span id="cb18-17"><a href="#cb18-17" aria-hidden="true" tabindex="-1"></a>       <span class="at">subtitle =</span> <span class="st">"Frequency"</span>,</span>
+<span id="cb18-18"><a href="#cb18-18" aria-hidden="true" tabindex="-1"></a>       <span class="at">title =</span> <span class="st">"R-Squared Distribution"</span></span>
+<span id="cb18-19"><a href="#cb18-19" aria-hidden="true" tabindex="-1"></a>       ) </span></code><button title="Copy to Clipboard" class="code-copy-button"><i class="bi"></i></button></pre></div>
 <div class="cell-output-display">
 <p><img src="Project-Proposal-Data_files/figure-html/unnamed-chunk-11-1.png" class="img-fluid" width="672"></p>
 </div>
